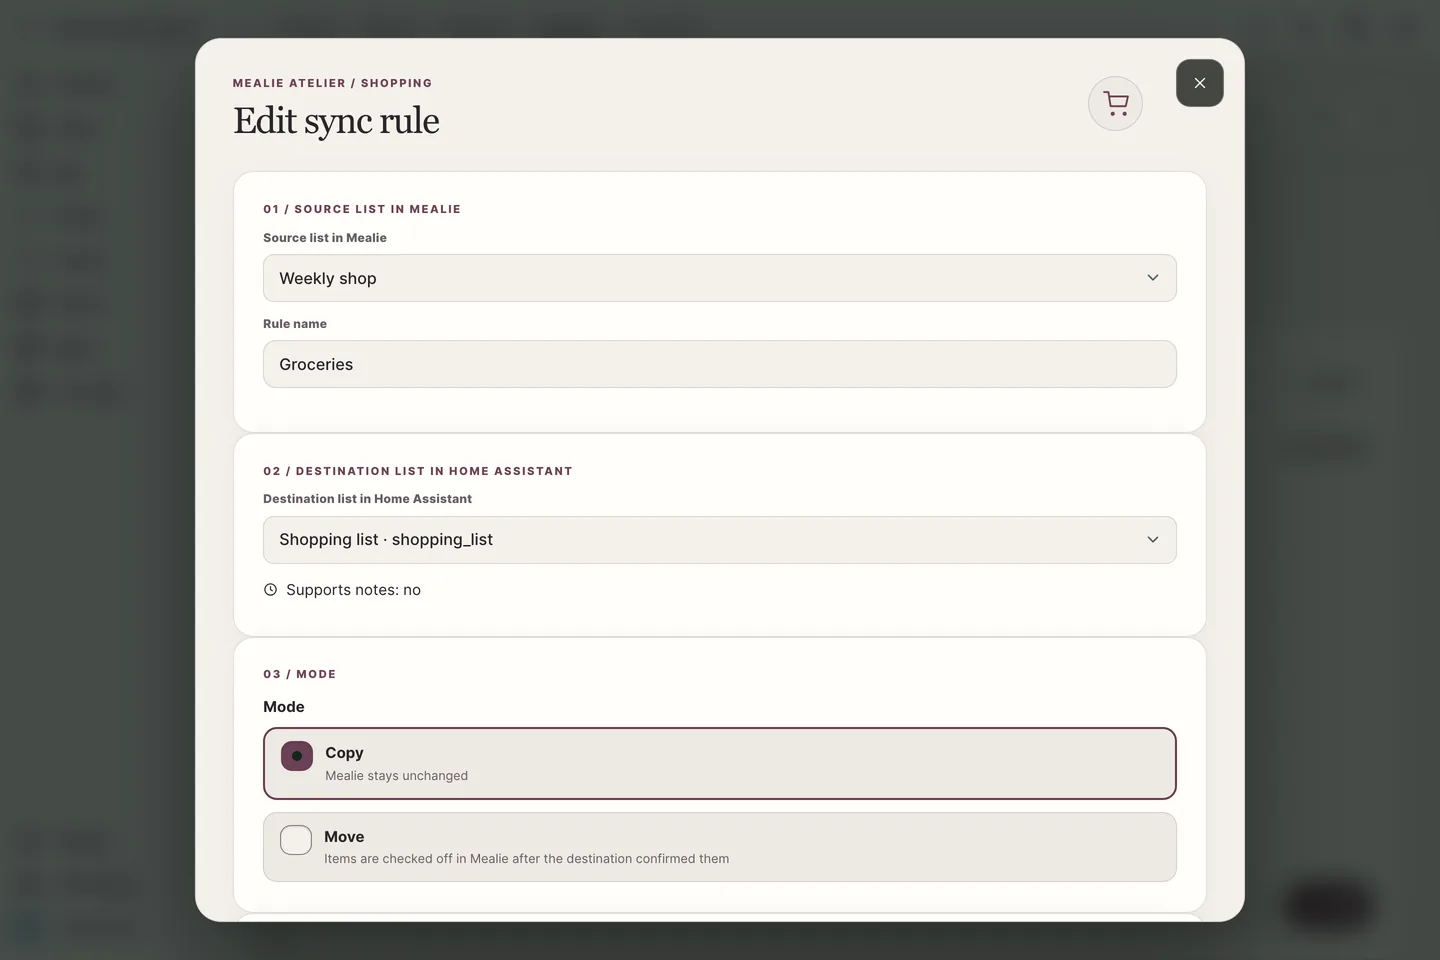
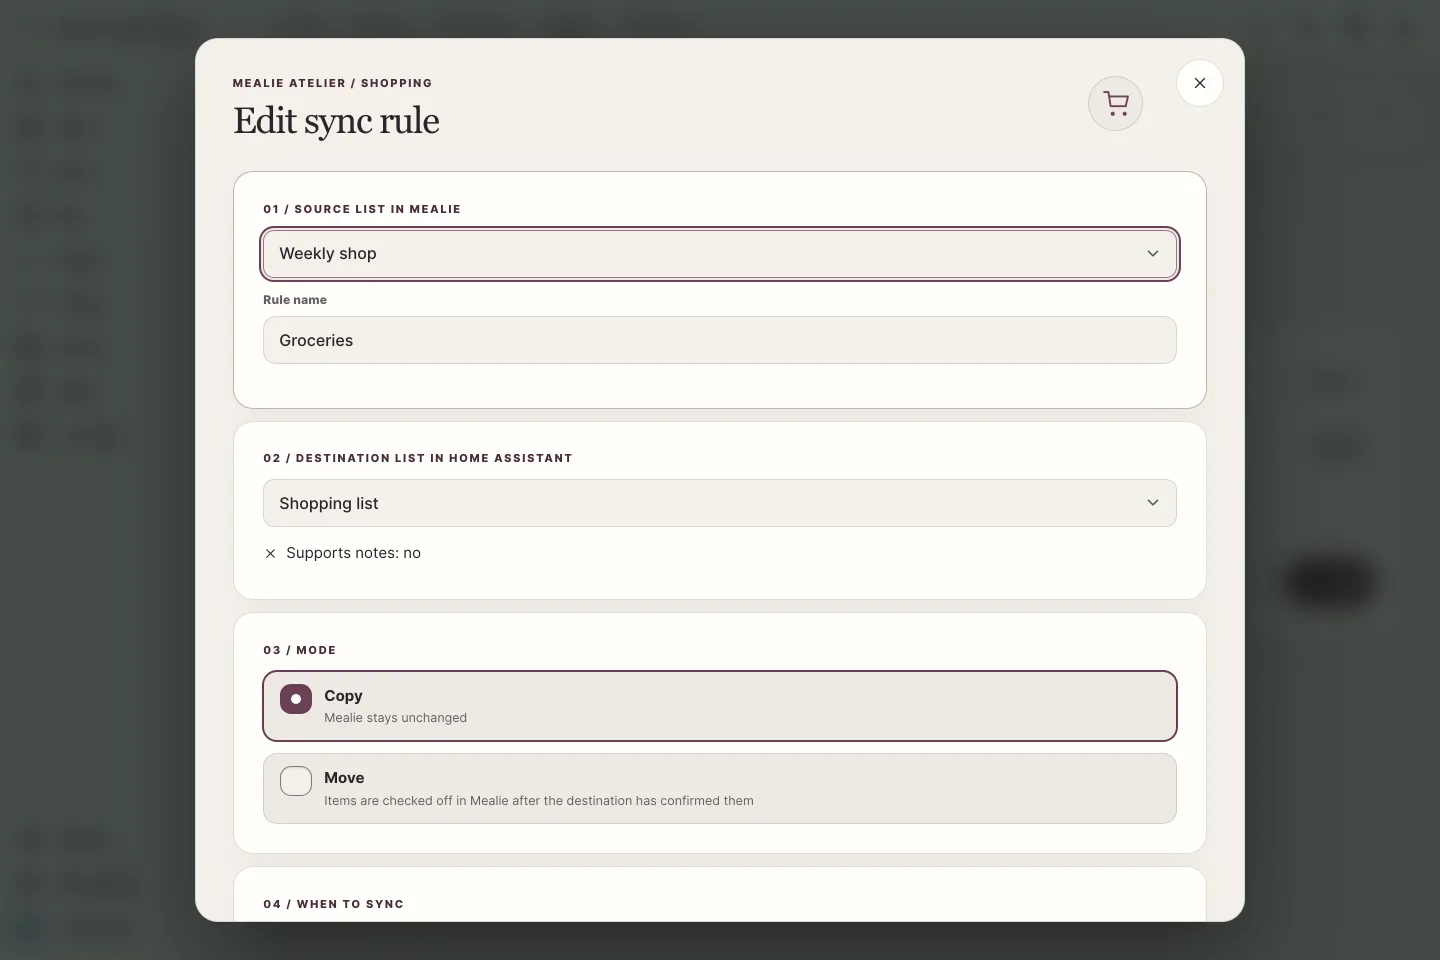
Retake the sync screenshots from the fixed cards build, pin the capture language and source list

diff --git a/tests/live/capture_bridge.py b/tests/live/capture_bridge.py
@@ -4,13 +4,19 @@ Usage: uv run --with playwright python tests/live/capture_bridge.py [out-dir] [l
 Run capture_screens.py first (it builds the screenshot dashboards). Saves the setup form, the
 integration page and the Smart Shopping Sync dialogs in light theme. A sync rule is created for the
 dialog shots and deleted again; it is never activated, so nothing is sent.
+
+Set CARDS_BUNDLE to a built mealie-atelier-cards.js to capture a cards build other than the one the
+rig mounts, for example a worktree's dist, without touching the mounted files.
 """
 
 from __future__ import annotations
 
 import asyncio
+import os
+import json
 import re
 import sys
+import urllib.request
 from pathlib import Path
 
 from capture_screens import BASE, DASHBOARD, settle, sign_in
@@ -21,6 +27,25 @@ HERE = Path(__file__).parent
 OUT = Path(sys.argv[1]) if len(sys.argv) > 1 else HERE / "state" / "shots"
 LANGUAGE = sys.argv[2] if len(sys.argv) > 2 else "de"
 TOKEN = str(HERE / "state" / "ha-token")
+CARDS_BUNDLE = os.environ.get("CARDS_BUNDLE")
+
+
+MEALIE = "http://localhost:19925"
+
+
+def mealie(method: str, path: str, body: object = None) -> object:
+    request = urllib.request.Request(
+        MEALIE + path,
+        method=method,
+        data=None if body is None else json.dumps(body).encode(),
+        headers={
+            "Authorization": f"Bearer {read_token(str(HERE / 'state' / 'mealie-token'))}",
+            "Content-Type": "application/json",
+        },
+    )
+    with urllib.request.urlopen(request, timeout=30) as response:
+        raw = response.read()
+    return json.loads(raw) if raw else None
 
 
 async def ws(command: dict) -> object:
@@ -31,11 +56,14 @@ async def ws(command: dict) -> object:
         return value
 
 
-async def create_rule() -> str:
-    shopping = await ws({"type": "mealie_atelier/shopping"})
+def list_name() -> str:
+    return "Wochenmarkt" if LANGUAGE == "de" else "Weekly shop"
+
+
+async def create_rule(source_list_id: str) -> str:
     rule = {
         "name": "Bring!" if LANGUAGE == "de" else "Groceries",
-        "source_list_id": shopping["lists"][0]["id"],
+        "source_list_id": source_list_id,
         "destination_entity_id": "todo.shopping_list",
         "mode": "copy",
     }
@@ -56,8 +84,11 @@ def shoot(page: Page, name: str) -> None:
 
 def main() -> None:
     OUT.mkdir(parents=True, exist_ok=True)
-    rule_id = asyncio.run(create_rule())
+    # A throwaway source list named in the capture language keeps the shots in one language.
+    list_id = mealie("POST", "/api/households/shopping/lists", {"name": list_name()})["id"]
+    rule_id = ""
     try:
+        rule_id = asyncio.run(create_rule(list_id))
         with sync_playwright() as play:
             browser = play.chromium.launch(
                 headless=True, args=["--lang=de-DE" if LANGUAGE == "de" else "--lang=en-US"]
@@ -69,6 +100,21 @@ def main() -> None:
                     locale="de-DE" if LANGUAGE == "de" else "en-US",
                     device_scale_factor=2,
                     service_workers="block",
+                )
+                if CARDS_BUNDLE:
+                    bundle = Path(CARDS_BUNDLE).read_bytes()
+                    context.route(
+                        "**/mealie-atelier-cards.js*",
+                        lambda route: route.fulfill(
+                            body=bundle, content_type="text/javascript; charset=utf-8"
+                        ),
+                    )
+                # The dashboards are saved in German; the card's own language setting and Home
+                # Assistant's profile language both come from the browser.
+                context.add_init_script(
+                    f"localStorage.setItem('selectedLanguage', JSON.stringify('{LANGUAGE}'));"
+                    f"localStorage.setItem('mealie-atelier:design', "
+                    f"JSON.stringify({{language: '{LANGUAGE}'}}));"
                 )
                 page = context.new_page()
                 sign_in(page)
@@ -97,9 +143,13 @@ def main() -> None:
                 browser.close()
     finally:
         try:
-            asyncio.run(ws({"type": "mealie_atelier/sync_rule_delete", "rule_id": rule_id}))
+            if rule_id:
+                asyncio.run(ws({"type": "mealie_atelier/sync_rule_delete", "rule_id": rule_id}))
         finally:
-            asyncio.run(abort_flows())
+            try:
+                mealie("DELETE", f"/api/households/shopping/lists/{list_id}")
+            finally:
+                asyncio.run(abort_flows())
     print(f"screenshots in {OUT}")
 
 

diff --git a/tests/test_docs_consistency.py b/tests/test_docs_consistency.py
@@ -50,3 +50,22 @@ def test_brand_readme_names_artwork_source_and_font_license() -> None:
     assert "SIL Open Font License" in text
     assert "brand/source/" in text
     assert "photograph of" not in text
+
+
+def test_bridge_capture_pins_the_card_language_and_uses_a_throwaway_list() -> None:
+    """Mixed-language or stale-bundle screenshots came from an unpinned capture."""
+    text = (ROOT / "tests" / "live" / "capture_bridge.py").read_text(encoding="utf-8")
+    assert "mealie-atelier:design" in text
+    assert "CARDS_BUNDLE" in text
+    assert "/api/households/shopping/lists" in text
+    assert 'f"/api/households/shopping/lists/{list_id}"' in text
+
+
+def test_sync_screenshots_keep_their_size() -> None:
+    for name in ("sync-setup.webp", "sync-status.webp"):
+        data = (ROOT / "assets" / "screens" / name).read_bytes()
+        assert data[:4] == b"RIFF" and data[8:12] == b"WEBP"
+        assert data[12:16] == b"VP8 "
+        width = int.from_bytes(data[26:28], "little") & 0x3FFF
+        height = int.from_bytes(data[28:30], "little") & 0x3FFF
+        assert (width, height) == (1440, 960), name
